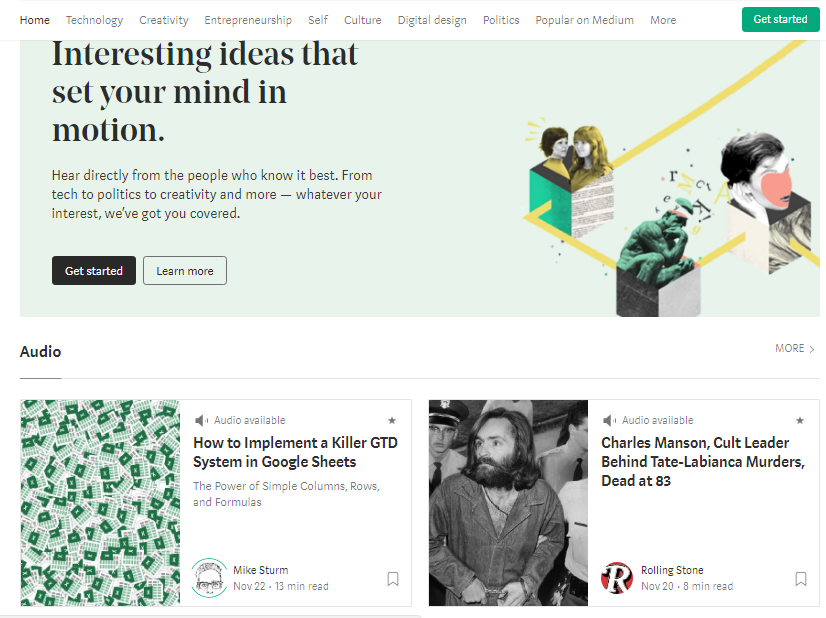
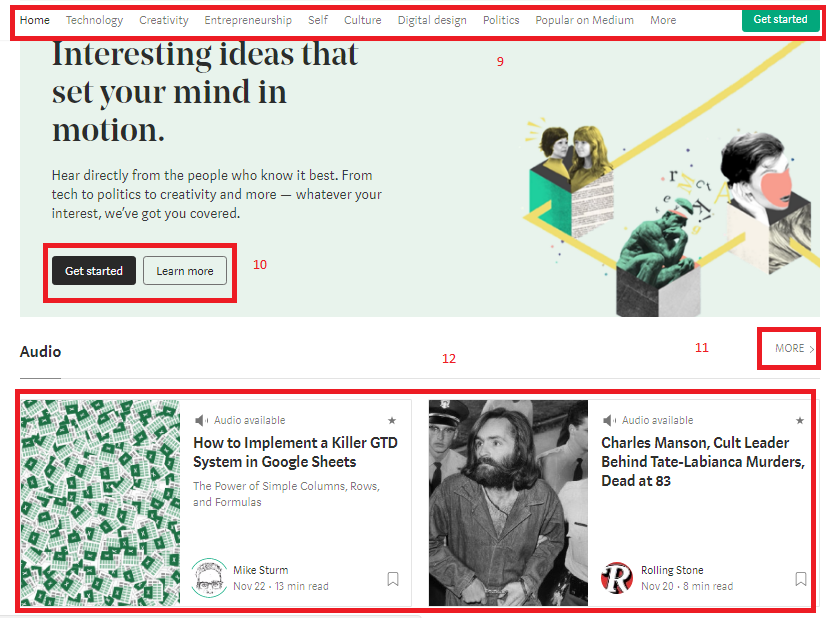
medium parte 2

Changed region(s): [[0.0, 0.0, 1.0, 0.0922], [0.0, 0.5227, 0.9988, 1.0], [0.0303, 0.3689, 0.3329, 0.4919]]

diff --git a/README.md b/README.md
@@ -108,10 +108,17 @@
 
 7. En línea. 
 
-8. Fcateada y local. Me dan esas opciones para navegar y cada una me lleva a una ventana diferente. 
+8. Faceteada y local. Me dan esas opciones para navegar y cada una me lleva a una ventana diferente. 
 
 ![navigation](assets/img/medium-1.png)
 
+9. Global y faceteada. Me dan opciones en donde navegar y se mantienen en toda la navegación.
+
+10. En línea y local. Esta opción de navegación esta sola y me lleva a otra ventana.
+
+11.  En línea.
+
+12. Faceteada y local. Me dan esas opciones para navegar y cada una me lleva a una ventana diferente. 
 
 
 
